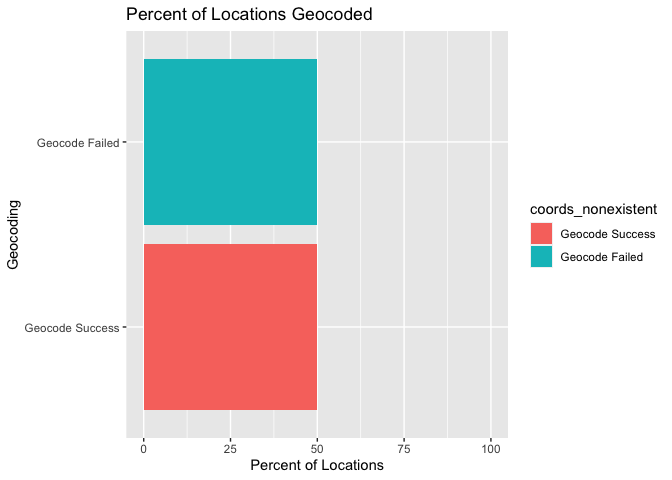
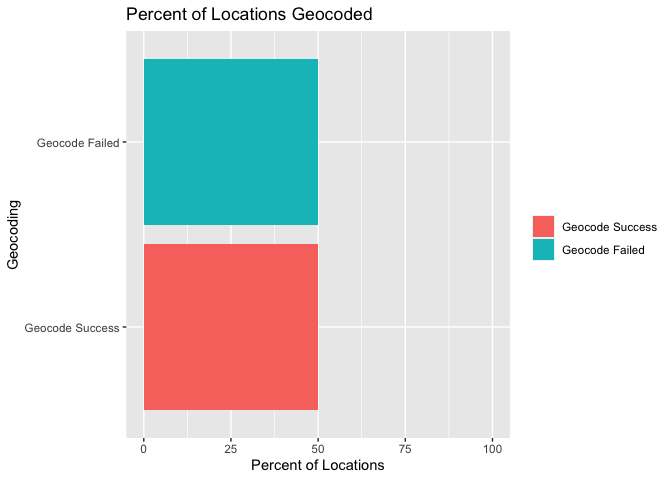
readme updated and plotting functions tweaked with legend title

diff --git a/README.md b/README.md
@@ -13,9 +13,9 @@ this package\!
 
 ## Pre Requisites
 
-Installation of the following packages readxl, dplyr, magrittr,
+Installation of the following packages : readxl, dplyr, magrittr,
 tidytext, stringr, tibble, geonames, countrycode, purrr, tidyr, forcats,
-ggplot2
+ggplot2.
 
 You also need a geonames user account if you intend to use the geocoding
 functionality of this package. Info on how to get one for free is
@@ -64,10 +64,14 @@ locationized_data %>%
 #> 6 2020-0164… West Pokot, Elgeyo Marakwet, Kisu… kisumu        116.343  365.935
 ```
 
-There are two problems with the Dataset as it exists here. 1. Half of
-our observations, even in this toy dataset, don’t have Lat/Long data 2.
-The Lat/Long here is blatantly wrong. Lat \> 90? Long \> 360? How is
-this possible?
+There are two problems with the Dataset as it exists here.
+
+1.  Half of our observations, even in this toy dataset, don’t have
+    Lat/Long data
+
+2.  The Lat/Long here is blatantly wrong.
+
+Lat \> 90? Long \> 360? How is this possible?
 
 So, we must recode this Lat/Long data
 
@@ -83,9 +87,14 @@ locationized_data %>%
 
 # Solving Problem 2: Geocoding the Locationized Data
 
+A reminder that you need a geonames username to access this feature of
+the `weed` package.
+
+More info available [here](https://www.geonames.org/manual.html).
+
 ``` r
 geocoded_data <- locationized_data %>%
-  geocode(geonames_username = "rammkripa")
+  geocode(geonames_username = dummy_name)
 geocoded_data %>%
   select(`Dis No`, Location,location_word, lat, lng)
 #> # A tibble: 6 x 5
